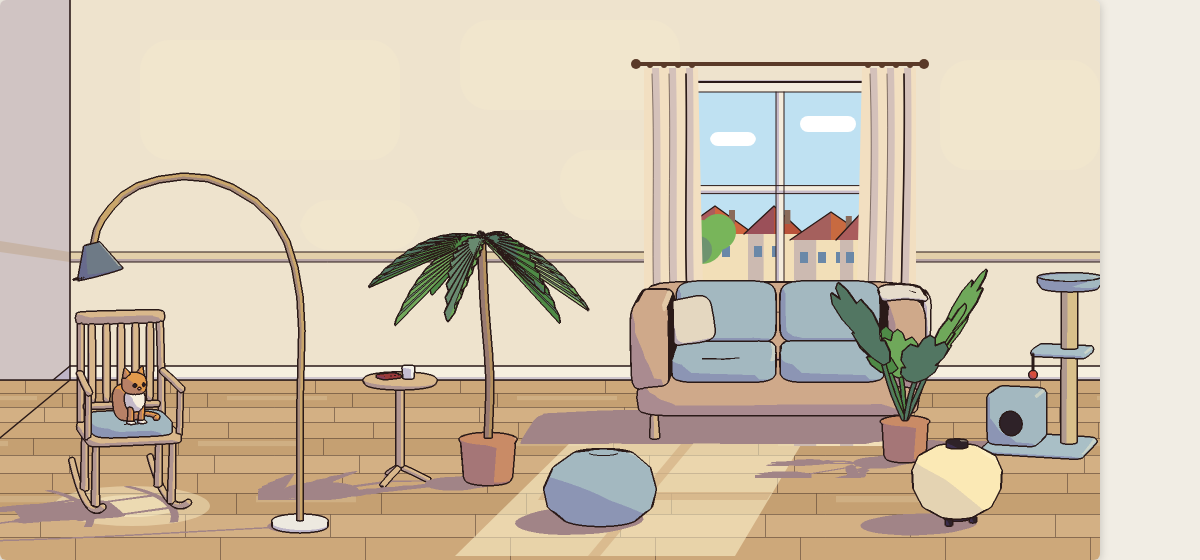
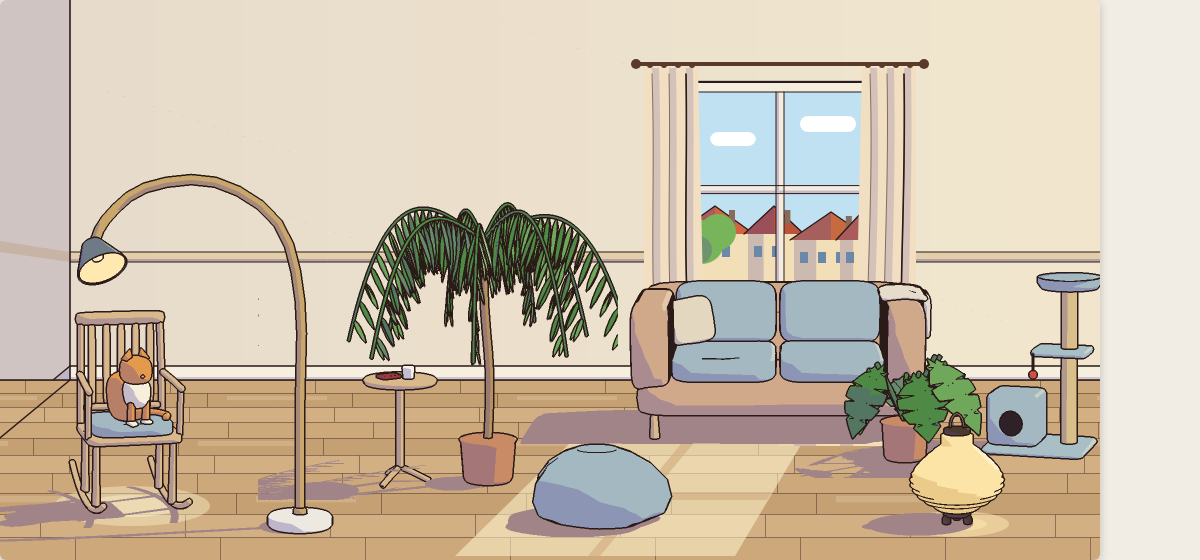
docs(g6): maquette v2 (plantes, chat, lanterne, pouf, mur, lampadaire)

diff --git a/docs/superpowers/maquettes/g6-piece/piece-ghibli.html b/docs/superpowers/maquettes/g6-piece/piece-ghibli.html
@@ -32,6 +32,7 @@ canvas{display:block;background:transparent}
 <h2>Tour du meuble <span class="tag">le même volume 3D sous 4 angles · aplats, ombre nette, encre</span></h2>
 <div class="row" id="tour-chair"></div>
 <div class="row" id="tour-sofa"></div>
+<div class="row" id="tour-plants"></div>
 <div class="row"><div class="card"><canvas id="turn" width="260" height="260"></canvas>Plateau tournant : les 8 angles de l'appli, pas après pas</div></div>
 
 <h2>Trois styles sur le même canapé <span class="tag">scandinave · bohème · steampunk</span></h2>
@@ -59,13 +60,14 @@ function superEll(a,b,c,e1,e2,nu=14,nv=24,deform){
  for(let i=0;i<nu;i++)for(let j=0;j<nv;j++){const a0=i*(nv+1)+j,b0=a0+1,c0=a0+nv+1,d0=c0+1;m.t.push([a0,c0,b0],[b0,c0,d0]);}
  return finish(m,[0,0,0]);
 }
-function lathe(prof,nv=20,deform){ // prof: [[r,y],...] de bas en haut
+function lathe(prof,nv=20,deform,opt={}){ // prof: [[r,y],...] de bas en haut ; opt.caps=false pour une surface ouverte
  const m=mk();const rings=[];
  prof.forEach(([r,y])=>{const ring=[];for(let j=0;j<=nv;j++){const a=2*Math.PI*j/nv;let p=[r*Math.cos(a),y,r*Math.sin(a)];if(deform)p=deform(...p);ring.push(m.v.length);m.v.push(p)}rings.push(ring)});
  for(let i=0;i<rings.length-1;i++)for(let j=0;j<nv;j++){m.t.push([rings[i][j],rings[i+1][j],rings[i][j+1]],[rings[i][j+1],rings[i+1][j],rings[i+1][j+1]])}
- if(prof[0][0]>0){const c=m.v.length;m.v.push([0,prof[0][1],0]);for(let j=0;j<nv;j++)m.t.push([c,rings[0][j],rings[0][j+1]])}
- const L=prof.length-1;if(prof[L][0]>0){const c=m.v.length;m.v.push([0,prof[L][1],0]);for(let j=0;j<nv;j++)m.t.push([c,rings[L][j+1],rings[L][j]])}
- const ys=prof.map(p=>p[1]);return finish(m,[0,(Math.min(...ys)+Math.max(...ys))/2,0]);
+ if(opt.caps!==false){
+  if(prof[0][0]>0){const c=m.v.length;m.v.push([0,prof[0][1],0]);for(let j=0;j<nv;j++)m.t.push([c,rings[0][j],rings[0][j+1]])}
+  const L=prof.length-1;if(prof[L][0]>0){const c=m.v.length;m.v.push([0,prof[L][1],0]);for(let j=0;j<nv;j++)m.t.push([c,rings[L][j+1],rings[L][j]])}}
+ const ys=prof.map(p=>p[1]);return finish(m,opt.center||[0,(Math.min(...ys)+Math.max(...ys))/2,0]);
 }
 function tube(pts,r,nv=10){
  pts=smooth(pts,3);const m=mk();const rings=[];let N=null;
@@ -78,14 +80,13 @@ function tube(pts,r,nv=10){
  [[0,-1],[rings.length-1,1]].forEach(([k,s])=>{const T=norm(sub(pts[Math.min(k+1,pts.length-1)],pts[Math.max(k-1,0)]));const c=m.v.length;m.v.push(pts[k]);m.n.push(scale(T,s));for(let j=0;j<nv;j++){const a=rings[k][j],b=rings[k][j+1];m.t.push(s<0?[c,b,a]:[c,a,b])}});
  return m;
 }
-function leaf(outline,th=.5,deform){ // outline: [[x,z],...] plan y=0, double face
- const m=mk();const n=outline.length;const cx=0,cz=0;
+function leaf(outline,th=.5,deform,center=[0,0]){ // outline: [[x,z],...] plan y=0, double face, étoilé autour de center
+ const m=mk();const n=outline.length;const [cx,cz]=center;
  const push=(x,y,z,ny)=>{let p=[x,y,z];if(deform)p=deform(...p);m.v.push(p);m.n.push([0,ny,0]);return m.v.length-1};
  const top=outline.map(([x,z])=>push(x,th/2,z,1)),ct=push(cx,th/2,cz,1);
  const bot=outline.map(([x,z])=>push(x,-th/2,z,-1)),cb=push(cx,-th/2,cz,-1);
  for(let i=0;i<n;i++){const j=(i+1)%n;m.t.push([ct,top[i],top[j]],[cb,bot[j],bot[i]]);m.t.push([top[i],bot[i],top[j]],[top[j],bot[i],bot[j]])}
- if(deform){ // recalcul des normales après déformation
-  const nn=m.v.map(()=>[0,0,0]);m.t.forEach(([a,b,c])=>{const N=cross(sub(m.v[b],m.v[a]),sub(m.v[c],m.v[a]));[a,b,c].forEach(i=>nn[i]=add(nn[i],N))});
+ if(deform){const nn=m.v.map(()=>[0,0,0]);m.t.forEach(([a,b,c])=>{const N=cross(sub(m.v[b],m.v[a]),sub(m.v[c],m.v[a]));[a,b,c].forEach(i=>nn[i]=add(nn[i],N))});
   m.n=nn.map((v,i)=>{const l=Math.hypot(...v);return l?scale(v,1/l):m.n[i]})}
  return m;
 }
@@ -176,36 +177,50 @@ const STYLES={
  steampunk:{wood:tone('#5A3A28'),fabric:tone('#6E3F2B'),cushion:tone('#6E3F2B'),accent:tone('#9A2E2E'),leg:tone('#3C3A42'),arm:null,variant:'steampunk',brass:tone('#C9A66B')},
 };
 const PINK=tone('#E8A0A0'),DARK=tone('#2E2228'),GINGER=tone('#E39A4C'),CREAM=tone('#F7EEDC'),GREEN=tone('#6FA85A'),GREEN2=tone('#4E8A46'),POT=tone('#C98B66'),SOIL=tone('#5A4030');
-const WHITE=tone('#F4F1EA'),MARBLE=tone('#EDE9E0'),BRASS=tone('#C9A66B'),GREY=tone('#6E7A86'),WARM={base:'#FFE9B0',shade:'#FFE9B0',hi:'#FFF6D0'},PAPER=tone('#FBE9B5',{s:.14}),SISAL=tone('#D9C08B'),FELT=tone('#A9BFC6');
+const WHITE=tone('#F4F1EA'),MARBLE=tone('#EDE9E0'),BRASS=tone('#C9A66B'),GREY=tone('#6E7A86'),WARM={base:'#FFE9B0',shade:'#FFE9B0',hi:'#FFF6D0'},PAPER={base:'#FBE4A6',shade:'#EACB8A',hi:'#FFF2C8'},SISAL=tone('#D9C08B'),FELT=tone('#A9BFC6');
 const deg=a=>a*Math.PI/180;
 
 /* ---------- le chat ---------- */
-function cat(o={}){ // pose 'sit' | 'walk', phase (marche), t, ry
- const P=[];const T=p=>place(p,{ry:o.ry||0,t:o.t||[0,0,0]});const push=(m,c,x)=>P.push(part(T(m),c,{crease:false,...x}));
- if(o.pose==='walk'){const ph=o.phase||0;
-  push(place(superEll(14,6.5,6.5,.7,.8,12,20),{t:[0,14,0]}),GINGER);
-  push(place(superEll(4,3.5,3.5,.8,.8,8,12),{t:[8,12,0]}),CREAM); // poitrail
-  push(place(superEll(6,5.5,6,.75,.75,12,16),{t:[13,20,0]}),GINGER);
-  [[-1],[1]].forEach(([s])=>push(place(lathe([[2.4,0],[.3,4.5]],8),{rz:0,rx:s*.35,t:[14,24,s*3.5]}),GINGER));
-  [[-1],[1]].forEach(([s])=>push(place(superEll(.9,.8,.5,1,1,6,8),{t:[18.5,20.5,s*2.4]}),DARK,{flat:true}));
-  push(place(superEll(.9,.7,.6,1,1,6,8),{t:[19.3,18.6,0]}),PINK,{flat:true});
-  // pattes : pivot à la hanche (y=13), balancement opposé des diagonales
-  [[9,1],[9,-1],[-8,1],[-8,-1]].forEach(([x,s],k)=>{const sw=Math.sin(ph+(k<2?0:Math.PI)+(s>0?0:Math.PI))*.5;push(place(lathe([[1.5,-13],[1.7,0]],8),{rz:sw,t:[x,13,s*3.2]}),GINGER)});
-  push(tube([[-13,15,0],[-18,20,1],[-19,27,2],[-16,31,3]],1.4,8),GINGER);
- }else{
-  push(place(superEll(8,10.5,9,.7,.7,14,20),{rx:-.25,t:[0,10.5,-2]}),GINGER);
-  push(place(superEll(6,6.5,5.5,.75,.75,12,16),{t:[0,13,4.5]}),CREAM);
-  push(place(superEll(6.5,6,6.5,.75,.75,12,18),{t:[0,22.5,4.5]}),GINGER);
-  [[-1],[1]].forEach(([s])=>push(place(lathe([[2.6,0],[.3,4.8]],8),{rz:-s*.3,t:[s*4,27,3.5]}),GINGER));
-  [[-1],[1]].forEach(([s])=>push(place(superEll(1.1,.9,.5,1,1,6,8),{t:[s*2.6,23,10.6]}),DARK,{flat:true}));
-  push(place(superEll(.9,.7,.6,1,1,6,8),{t:[0,21.2,11]}),PINK,{flat:true});
-  [[-1],[1]].forEach(([s])=>push(place(lathe([[1.7,0],[1.6,11]],8),{t:[s*3.4,0,7.5]}),GINGER));
-  [[-1],[1]].forEach(([s])=>push(place(superEll(2,1.2,2.6,.6,.6,6,10),{t:[s*3.4,1,8.5]}),CREAM));
-  push(tube([[6,2,-7],[13,1.8,-3],[15,2,4],[12,2.4,9]],1.5,8),GINGER);
+function cat(o={}){ // pose 'walk' (phase) | 'leap' (u 0→1, incl) | 'rest' (u : 0 assis → 1 enroulé) ; ry, t ; échelle réelle ~45 cm
+ const P=[];const S=1.35;const T=p=>place(p,{s:S,ry:o.ry||0,t:o.t||[0,0,0]});const push=(m,c,x)=>P.push(part(T(m),c,{crease:false,...x}));
+ const face=(hx,hy,hz,fwd)=>{ // yeux + nez, fwd = direction du museau (unitaire, plan xz)
+  const [fx,fz]=fwd;const side=[-fz,fx];
+  [[-1],[1]].forEach(([s])=>push(place(superEll(.9,.8,.5,1,1,6,8),{ry:Math.atan2(fx,fz),t:[hx+fx*5.2+side[0]*s*2.5,hy+.6,hz+fz*5.2+side[1]*s*2.5]}),DARK,{flat:true,noshadow:true}));
+  push(place(superEll(.8,.6,.6,1,1,6,8),{t:[hx+fx*6.2,hy-1.4,hz+fz*6.2]}),PINK,{flat:true,noshadow:true})};
+ const ears=(hx,hy,hz,fwd,tilt=0)=>{const [fx,fz]=fwd;const side=[-fz,fx];[[-1],[1]].forEach(([s])=>push(place(lathe([[2.5,0],[1.6,2.2],[.3,4.8]],8),{rz:-s*.28+tilt,ry:Math.atan2(fx,fz),t:[hx+side[0]*s*3.8-fx*.5,hy+4.2,hz+side[1]*s*3.8-fz*.5]}),GINGER))};
+ const tailTube=(pts,r=1.5)=>push(tube(pts,r,8),GINGER);
+ if(o.pose==='walk'){const ph=o.phase||0,bob=.5*Math.abs(Math.sin(ph));
+  push(place(superEll(13,6,6,.75,.85,12,20),{t:[0,14+bob,0]}),GINGER);
+  push(place(superEll(4.5,3.6,3.6,.8,.8,8,12),{t:[9,12.5+bob,0]}),CREAM);
+  push(place(superEll(5.6,5.2,5.6,.75,.75,12,16),{t:[14,19.5+bob,0]}),GINGER);
+  ears(14,19.5+bob,0,[1,0]);face(14,19.5+bob,0,[1,0]);
+  // pattes articulées : cuisse 7 + jambe 6, pivot hanche/épaule, diagonales opposées
+  [[8.5,1,0],[8.5,-1,Math.PI],[-8.5,1,Math.PI],[-8.5,-1,0]].forEach(([x,s,off])=>{const a=Math.sin(ph+off)*.55;const bend=.35+.55*Math.max(0,Math.sin(ph+off+1.2));
+   const hip=[x,13.5+bob,s*3.2];push(place(lathe([[1.5,-7],[1.8,0]],8),{rz:a,t:hip}),GINGER);
+   const knee=[hip[0]+Math.sin(a)*7,hip[1]-Math.cos(a)*7,hip[2]];const a2=a-bend*(x>0?1:-1)*(Math.sin(ph+off)>0?1:.3);
+   push(place(lathe([[1.3,-6.5],[1.5,0]],8),{rz:a2,t:knee}),GINGER);
+   const paw=[knee[0]+Math.sin(a2)*6.5,knee[1]-Math.cos(a2)*6.5,knee[2]];push(place(superEll(2,1.1,1.6,.6,.6,6,8),{t:[paw[0]+.5,Math.max(0,paw[1])+.6,paw[2]]}),CREAM)});
+  const w=Math.sin(ph*.5);tailTube([[-12,15+bob,0],[-18,19+bob,w*1.5],[-21,25+bob,w*3],[-19,30+bob,w*4],[-15,32+bob,w*4.5]]);
+ }else if(o.pose==='leap'){const u=o.u||0,incl=o.incl||0; // élan : corps étiré, pattes avant tendues, arrière en extension
+  const B=p=>rotZ(p,incl);const put=(m,c,pos,x)=>push(place(m,{rz:incl,t:add(B(pos),[0,0,0])}),c,x);
+  put(superEll(16,5.6,5.6,.8,.85,12,20),GINGER,[0,16,0]);
+  put(superEll(5.4,5,5.4,.75,.75,12,16),GINGER,[16,20,0]);
+  const hp=B([16,20,0]);ears(hp[0],hp[1],hp[2],[Math.cos(incl),0],incl*.5);face(hp[0],hp[1],hp[2],[Math.cos(incl),0]);
+  [[1],[-1]].forEach(([s])=>{const sh=B([13,13,s*3]);push(place(lathe([[1.4,-12],[1.7,0]],8),{rz:incl-1.15,t:sh}),GINGER)});
+  [[1],[-1]].forEach(([s])=>{const hp2=B([-12,14,s*3.2]);push(place(lathe([[1.5,-12.5],[1.9,0]],8),{rz:incl+1.05+.3*u,t:hp2}),GINGER)});
+  tailTube([B([-15,16,0]),B([-23,17,1]),B([-30,16,2]),B([-35,13,2])]);
+ }else{ // rest : u=0 assis, u=1 enroulé
+  const u=o.u||0,L=(a,b)=>a+(b-a)*u;
+  push(place(superEll(L(8,12.5),L(10.5,5.8),L(9,10.5),.7,.7,14,22),{rx:L(-.25,0),t:[0,L(10.5,5.8),L(-2,0)]}),GINGER);
+  push(place(superEll(L(6,4),L(6.5,3.5),L(5.5,4),.75,.75,12,16),{t:[L(0,-6),L(13,5),L(4.5,7)]}),CREAM);
+  const hp=[L(0,-6),L(22.5,9.5),L(4.5,8)];push(place(superEll(6.3,5.8,6.3,.75,.75,12,18),{t:hp}),GINGER);
+  const fwd=[Math.sin(L(0,-.9)),Math.cos(L(0,-.9))];ears(hp[0],hp[1],hp[2],fwd);face(hp[0],hp[1],hp[2],fwd);
+  if(u<.98){[[-1],[1]].forEach(([s])=>{push(place(lathe([[1.6,0],[1.5,L(11,3)]],8),{t:[s*3.4,0,L(7.5,6)]}),GINGER);push(place(superEll(2,1.2,2.6,.6,.6,6,10),{t:[s*3.4,1,L(8.5,7)]}),CREAM)})}
+  const tailS=[[6,2,-7],[13,1.8,-3],[15,2,4],[12,2.4,9]],tailC=[[10,2,-6],[14,2,2],[10,2.2,9],[2,2.4,11],[-4,2.6,10]];
+  tailTube(tailS.map((p,i)=>p.map((v,k)=>L(v,tailC[i<tailC.length?i:tailC.length-1][k]))).concat(u>.5?[tailC[4].map((v,k)=>L(tailS[3][k],v))]:[]));
  }
  return P;
 }
-
 /* ---------- rocking-chair ---------- */
 const RUN_R=95;
 function chair(st=STYLES.scandinave,o={}){
@@ -219,7 +234,7 @@ function chair(st=STYLES.scandinave,o={}){
  P.push(part(place(superEll(24,1.7,1.5,.3,.3,6,16),{t:[0,53,-19.6]}),W,{crease:false}));
  for(let i=-2;i<=2;i++)P.push(part(place(superEll(2,23,.9,.3,.3,10,10),{rx:-.075,t:[i*8.5,77.5,-22.4]}),W,{crease:false}));
  for(const sx of[-1,1]){P.push(part(tube([[sx*24.2,72,-21.5],[sx*25.6,71,0],[sx*26.2,70,16]],1.9,10),W,{crease:false}));P.push(part(place(lathe([[1.6,0],[1.6,27]],10),{t:[sx*26.2,43,14]}),W,{crease:false}))}
- if(o.cat)P.push(...cat({pose:'sit',ry:.25,t:[0,49.5,3]}));
+ if(o.cat!=null&&o.cat!==false)P.push(...cat({pose:'rest',u:o.cat===true?0:o.cat,ry:.25,t:[0,49.5,3]}));
  return P;
 }
 
@@ -261,12 +276,17 @@ function sofa(st=STYLES.scandinave){
 
 /* ---------- autres meubles de la pièce ---------- */
 function arcLamp(){const P=[];
- P.push(part(lathe([[16,0],[16,3.2],[0,3.2]],28),MARBLE));
- const pts=[[0,3,0],[0,70,0],[0,130,0],[-14,172,0],[-50,194,0],[-88,190,0],[-108,172,0],[-113,158,0]];
- P.push(part(tube(pts,1.7,10),BRASS,{crease:false}));
- const end=pts[pts.length-1];
- P.push(part(place(lathe([[4.5,0],[12,-15],[13,-17],[0,-17]],24),{rz:.25,t:[end[0]-1,end[1]+1,0]}),GREY));
- P.push(part(place(lathe([[0,0],[11.4,0]],24),{rz:.25,t:[end[0]-1,end[1]-15.6,0]}),WARM,{flat:true,noshadow:true}));
+ // socle : disque de marbre épais à chanfrein + collier laiton
+ P.push(part(lathe([[0,0],[17.5,0],[18.5,1.2],[18.5,5.5],[17.5,6.8],[4.5,6.8],[4.5,7.2],[0,7.2]],32),MARBLE,{creaseThr:.75}));
+ P.push(part(lathe([[3.6,6.8],[3.6,10],[2.9,10.8]],14),BRASS,{crease:false}));
+ // fût : vraie épaisseur (≈5 cm), arc continu
+ const pts=[[0,8,0],[0,70,0],[0,128,0],[-12,170,0],[-46,192,0],[-84,189,0],[-106,172,0],[-113,158,0]];
+ P.push(part(tube(pts,2.6,12),BRASS,{crease:false}));
+ const end=pts[pts.length-1];const at={rz:.4,rx:-.62,t:[end[0]-1,end[1]+1,0]};
+ // abat-jour ouvert : extérieur gris-bleu, intérieur chaud visible, ampoule
+ P.push(part(place(lathe([[14,-17],[13.6,-15.5],[5.5,0],[0,0]],28,null,{caps:false,center:[0,-4,0]}),at),GREY));
+ P.push(part(place(lathe([[13.2,-16.6],[5,-1.2]],28,null,{caps:false,center:[0,-30,0]}),at),WARM,{flat:true,noshadow:true}));
+ P.push(part(place(lathe([[0,-11],[3,-10],[3.4,-7],[2.2,-4],[0,-4]],12),at),tone('#FFF4C8',{s:.08}),{crease:false,noshadow:true}));
  return P}
 function gueridon(){const P=[];
  P.push(part(lathe([[0,56],[20,56],[21,58],[20,59],[0,59]],28),STYLES.scandinave.wood));
@@ -278,22 +298,49 @@ function gueridon(){const P=[];
 function palm(){const P=[];
  P.push(part(lathe([[13,0],[14,2],[15.5,22],[16.5,24],[15,24.5],[14.5,24.6]],24),POT));
  P.push(part(lathe([[0,24],[13.8,24]],24),SOIL,{flat:true,noshadow:true}));
- P.push(part(tube([[0,24,0],[1,60,0],[-2,100,0],[-4,138,1]],2.2,8),tone('#B5915E'),{crease:false}));
- const out=[];for(let i=0;i<=20;i++){const z=i*3;const w=6.5*Math.sin(Math.PI*z/60)*(1-.3*z/60)+.4;out.push([w+(i%2?1.5:0),z])}for(let i=20;i>=0;i--){const z=i*3;const w=6.5*Math.sin(Math.PI*z/60)*(1-.3*z/60)+.4;out.push([-(w+(i%2?1.5:0)),z])}
- for(let k=0;k<8;k++){const a=k*2*Math.PI/8+.3,drop=.3+.45*((k*7)%3)/2;P.push(part(place(leaf(out,.6,(x,y,z)=>[x,y-.011*z*z,z]),{rx:-(.55-drop),ry:a,t:[-4,138,1]}),k%2?GREEN:GREEN2))}
+ P.push(part(tube([[0,24,0],[1,60,0],[-2,100,0],[-3,136,1]],2.3,8),tone('#B5915E'),{crease:false}));
+ const top=[-3,136,1];
+ for(let k=0;k<9;k++){const a=k*2*Math.PI/9+.25,rise=.55+.3*((k*5)%3)/2,len=78+10*((k*7)%3);
+  // rachis : monte, s'arque puis retombe (dans le plan local x-y, puis tourné de a)
+  const N=20;const loc=[];for(let i=0;i<=N;i++){const s=i/N;loc.push([len*s*(1-.15*s),28*Math.sin(Math.PI*s*.9)*rise-62*s*s*s,0])}
+  const world=loc.map(p=>add(rotY(p,a),top));P.push(part(tube(world,.75,6),GREEN2,{crease:false}));
+  // folioles fines et souples des deux côtés, de plus en plus courtes vers la pointe
+  for(let i=3;i<loc.length;i++){for(let f=0;f<1;f++){const s=i/N;const p0=loc[i-1],p1=loc[i];const pm=[p0[0]+(p1[0]-p0[0])*f*.5,p0[1]+(p1[1]-p0[1])*f*.5,0];
+   const tilt=Math.atan2(p1[1]-p0[1],p1[0]-p0[0]);const Lf=(34-18*s)*(.92+.16*((i*3)%2));
+   for(const sd of[-1,1]){const droop=.95+.3*(((i*7+(sd>0?1:0))%4)/3)+.3*s;
+    const out=[[0,0],[1.1,Lf*.2],[1.35,Lf*.45],[1,Lf*.75],[0,Lf],[-1,Lf*.75],[-1.35,Lf*.45],[-1.1,Lf*.2]];
+    let m=leaf(out,.35,(x,y,z)=>[x,y-.009*z*z,z]);m=place(m,{s:[1,1,sd],rx:sd*droop});m=place(m,{rz:tilt*.35,ry:a,t:add(rotY(pm,a),top)});
+    P.push(part(m,(i+sd)%2?GREEN:GREEN2,{crease:false}))}}}}
  return P}
-function beanbag(){return[part(lathe([[0,0],[22,0],[30,7],[32,17],[28,28],[18,36],[9,37.5],[3,35.5],[0,35]],28,(x,y,z)=>[x+(y>20?(y-20)*.12:0),y,z]),STYLES.scandinave.cushion)]}
+function beanbag(){ // sac de billes affaissé : base large, plis verticaux, creux au sommet, légère bascule
+ const prof=[[0,0],[27,0],[35,4],[38,12],[36,22],[29,31],[20,37],[12,40],[7,38.5],[3,35],[0,34]];
+ const def=(x,y,z)=>{const a=Math.atan2(z,x),r=Math.hypot(x,z);const fold=1+(.085*(Math.abs(Math.sin(2.5*a+.6))-.5)+.03*Math.sin(7*a-1.1))*(y<28?1:Math.max(0,(40-y)/12));
+  const rr=r*fold;const lean=y>18?(y-18)*.09:0;return[rr*Math.cos(a)-lean,y-(r<8&&y>30?.8:0),rr*Math.sin(a)]};
+ return[part(lathe(prof,36,def),STYLES.scandinave.cushion,{creaseThr:.8})]}
 function monstera(){const P=[];
  P.push(part(lathe([[11,0],[12,2],[13,20],[14,21.5],[12.5,22]],24),POT));P.push(part(lathe([[0,21.5],[12,21.5]],24),SOIL,{flat:true,noshadow:true}));
- const out=[[0,0],[-7,-3],[-12,-9],[-13,-15],[-8,-14],[-15,-22],[-16,-30],[-12,-36],[-6,-33],[-4,-40],[0,-43],[4,-40],[6,-33],[12,-36],[16,-30],[15,-22],[8,-14],[13,-15],[12,-9],[7,-3]].map(([x,z])=>[x*.9,-z*.9]);
- const leaves=[[0,.55,.7],[1.3,.9,.6],[-1.4,.85,.55],[2.9,.45,.45],[-2.9,.55,.75],[.7,.7,.5]];
- leaves.forEach(([a,s,drop],k)=>{P.push(part(tube([[0,21,0],[Math.sin(a)*8,38,Math.cos(a)*8],[Math.sin(a)*14,30+30*s,Math.cos(a)*14]],1.1,6),GREEN2,{crease:false}));
-  P.push(part(place(leaf(out,.6),{s:s*1.7,rx:-(1.3-drop*.5),ry:a,t:[Math.sin(a)*14,30+30*s,Math.cos(a)*14]}),k%2?GREEN:GREEN2))});
+ // feuille en cœur fendue : contour étoilé autour de (0,L/2), fentes profondes depuis le bord
+ const L=46,W=36;const w=z=>{const t=z/L;return W/2*Math.sin(Math.PI*Math.pow(t,.8))*(t<.3?.75+.25*t/.3:1)};
+ const side=(sgn)=>{const pts=[];const zs=[];for(let i=0;i<=14;i++)zs.push(L*(1-i/14));
+  zs.forEach((z,i)=>{if(i===0||i===14)return;const x=w(z)*sgn;pts.push([x,z]);
+   if([3,6,9,12].includes(i)){const d=.55+.1*(i%2);pts.push([x*(1-d)+(sgn*1.2)*0,z-1.5]);pts.push([x*(1-d),z-1.6]);pts.push([x,z-3])}});
+  return pts};
+ const out=[[0,L],...side(1),[2.5,-1],[0,3.5],[-2.5,-1],...side(-1).reverse()];
+ const blade=(sc)=>leaf(out,.5,(x,y,z)=>[x,y-.006*(z-L/2)*(z-L/2)-.004*x*x,z],[0,L*.5]);
+ const stems=[[0,.8,1.15,.85],[1.25,.95,1.05,1],[-1.3,.9,1.1,.95],[2.7,.6,.95,.8],[-2.6,.7,1.2,.9],[.6,1,.9,1.1]];
+ stems.forEach(([a,h,tip,sc],k)=>{const r1=10,r2=20;const p1=[Math.sin(a)*r1,21+22*h,Math.cos(a)*r1],p2=[Math.sin(a)*r2,21+40*h,Math.cos(a)*r2];
+  P.push(part(tube([[0,21,0],p1,p2],1.2,6),GREEN2,{crease:false}));
+  // la feuille part du bout de la tige, pend vers l'extérieur et vers le bas (pointe en bas)
+  P.push(part(place(blade(sc),{s:sc,rx:tip,ry:a,t:p2}),k%2?GREEN:GREEN2))});
  return P}
-function lantern(){const P=[];
- P.push(part(lathe([[0,4],[11,4.5],[20,10],[25,20],[25.5,30],[22,38],[13,43],[0,44]],28),PAPER,{creaseThr:.93}));
- P.push(part(lathe([[6,42],[6,47],[0,47]],16),DARK,{crease:false}));P.push(part(lathe([[0,2.5],[8,2.5],[8,5]],16),DARK,{crease:false}));
- for(let k=0;k<3;k++){const a=k*2.1;P.push(part(place(lathe([[2,0],[2,3]],8),{t:[Math.cos(a)*9,0,Math.sin(a)*9]}),DARK,{crease:false}))}
+function lantern(){const P=[]; // chōchin : fuseau à côtes horizontales, anneaux de bois, cordon, lueur chaude
+ const prof=[[0,6],[6,6],[11,7.5]];for(let y=9;y<=47;y+=3.2){const t=(y-6)/41;const r=22.5*Math.sin(Math.PI*Math.pow(t,.9))*(.78+.22*(1-t))+6;prof.push([r+.7,y],[r-.5,y+1.4])}
+ prof.push([9,50.5],[5,51.5],[0,51.5]);
+ P.push(part(lathe(prof,32),PAPER,{creaseThr:.9}));
+ P.push(part(lathe([[5.5,51],[7.2,51.5],[7.4,54],[5.5,54.5]],16),tone('#4A3A2E'),{crease:false}));
+ P.push(part(lathe([[0,4.2],[7.6,4.2],[7.8,6.6],[6.4,6.8]],16),tone('#4A3A2E'),{crease:false}));
+ P.push(part(tube([[-4,54,0],[-3,60,1],[0,63,2],[3,60,1],[4,54,0]],.6,6),tone('#8A6A4A'),{crease:false,noshadow:true}));
+ for(let k=0;k<3;k++){const a=k*2.1+.5;P.push(part(place(lathe([[2.2,0],[2.4,2.6],[1.6,4.4]],8),{t:[Math.cos(a)*7,0,Math.sin(a)*7]}),tone('#4A3A2E'),{crease:false}))}
  return P}
 function catTree(){const P=[];const BOX=STYLES.scandinave.cushion;
  P.push(part(place(superEll(30,1.6,22,.2,.2,6,20),{t:[0,1.6,0]}),FELT));
@@ -313,7 +360,8 @@ function drawBackground(ctx,t){
  ctx.save();
  // mur du fond + léger relief en aplats
  ctx.fillStyle=WALL;ctx.fillRect(0,0,1100,FL);
- ctx.fillStyle=li(WALL,.16);[[140,40,260,120],[460,20,220,90],[560,150,160,70],[940,60,160,110],[300,200,120,50]].forEach(([x,y,w,h])=>{rrect(ctx,x,y,w,h,30);ctx.fill()});
+ for(let k=0;k<12;k++){ctx.fillStyle=mix(sh(WALL,.05),li(WALL,.16),k/11);ctx.fillRect(70+k*86,0,88,FL)}
+ ctx.fillStyle='rgba(42,26,24,.035)';for(let k=0;k<70;k++){const x=90+((k*197)%1000),y=20+((k*131)%330);ctx.fillRect(x,y,2+(k%3),1)}
  // cimaise
  ctx.fillStyle='#E2CFA9';ctx.fillRect(70,252,1030,7);ctx.fillStyle=sh('#E2CFA9');ctx.fillRect(70,259,1030,3);ink(ctx,[[70,252],[1100,252]],1.2);ink(ctx,[[70,262],[1100,262]],1);
  // pan de mur gauche (coin)
@@ -338,6 +386,7 @@ function drawBackground(ctx,t){
  ctx.beginPath();ctx.moveTo(543,FL+112);ctx.lineTo(772,FL+112);ctx.lineTo(767,FL+120);ctx.lineTo(538,FL+120);ctx.closePath();ctx.fill();
  // flaque du lampadaire (deux tons nets, pas de flou)
  ctx.fillStyle='rgba(255,246,208,.42)';ctx.beginPath();ctx.ellipse(132,506,78,20,0,0,7);ctx.fill();ctx.fillStyle='rgba(255,246,208,.45)';ctx.beginPath();ctx.ellipse(132,506,46,11,0,0,7);ctx.fill();
+ ctx.fillStyle='rgba(255,233,176,.5)';ctx.beginPath();ctx.ellipse(957,524,52,13,0,0,7);ctx.fill();ctx.fillStyle='rgba(255,233,176,.5)';ctx.beginPath();ctx.ellipse(957,524,30,7,0,0,7);ctx.fill();
  // fenêtre
  const wx=690,wy=92,ww=180,wh=208;
  ctx.fillStyle=sh(WALL,.25);ctx.fillRect(wx-12,wy-12,ww+24,wh+24); // embrasure
@@ -397,37 +446,41 @@ function buildRoom(){
  FURN.push(sprite(catTree(),1040,448,{w:260,h:260,ox:150,oy:240,yaw:-.25}));
 }
 const CHAIR_X=130,CHAIR_Y=506,CHAIR_YAW=.22;
-function chairSprite(angle,withCat){
+function chairSprite(angle,catU){
  const pre=p=>{const q=[p[0],p[1]-RUN_R,p[2]];const r=rotX(q,angle);return[r[0],r[1]+RUN_R,r[2]]};const preN=n=>rotX(n,angle);
- return sprite(chair(STYLES.scandinave,{cat:withCat}),CHAIR_X,CHAIR_Y,{w:360,h:300,ox:240,oy:270,yaw:CHAIR_YAW,pre,preN});
+ return sprite(chair(STYLES.scandinave,{cat:catU}),CHAIR_X,CHAIR_Y,{w:360,h:300,ox:240,oy:270,yaw:CHAIR_YAW,pre,preN});
 }
 let catSitSprite=null;const catWalkSprites={};
-function catWalk(ph,dir){const k=Math.round(ph*8)/8+'|'+dir;if(!catWalkSprites[k])catWalkSprites[k]=render(cat({pose:'walk',phase:ph,ry:dir>0?deg(10):deg(190)}),{...ROOM,w:140,h:100,ox:70,oy:85});return catWalkSprites[k]}
+function catWalk(ph,dir){const k=Math.round(ph*6)/6+'|'+dir;if(!catWalkSprites[k])catWalkSprites[k]=render(cat({pose:'walk',phase:ph,ry:dir>0?deg(12):deg(192)}),{...ROOM,w:160,h:110,ox:80,oy:95});return catWalkSprites[k]}
 
 /* ---------- chronologie (13 s) ---------- */
-const T=13;
-function timeline(t){ // renvoie l'état : chairAngle, cat {mode,x,y,ph,dir}
- let ang=0,c=null;
+const T=14.5;
+function timeline(t){ // renvoie l'état : chairAngle, cat {mode,x,y,ph,dir,u,incl}
+ let ang=0,c=null;const ease=u=>u*u*(3-2*u);
  const rock=(t0,A)=>{const u=t-t0;return u>0?deg(A)*Math.exp(-.55*u)*Math.sin(2*Math.PI*u/1.75):0};
- if(t<1.9){const u=t/1.9;c={mode:'walk',x:-70+(55+70)*u,y:518,ph:u*14,dir:1}}
- else if(t<2.5){const u=(t-1.9)/.6;const ease=u*u;c={mode:'jump',x:55+(128-55)*ease,y:518+(418-518)*u-60*Math.sin(Math.PI*u),dir:1}}
- else if(t<9.2){c={mode:'sit'};ang=rock(2.45,6.5)}
- else if(t<9.75){const u=(t-9.2)/.55;c={mode:'jump',x:128+(38-128)*u,y:418+(518-418)*u*u-34*Math.sin(Math.PI*u),dir:-1};ang=rock(9.2,2.2)}
- else if(t<11.9){const u=(t-9.75)/2.15;c={mode:'walk',x:38-(38+80)*u,y:518,ph:u*16,dir:-1};ang=rock(9.2,2.2)}
+ if(t<2.1){const u=t/2.1;c={mode:'walk',x:-80+(52+80)*u,y:518,ph:u*15,dir:1}}
+ else if(t<2.7){const u=(t-2.1)/.6;c={mode:'leap',x:52+(130-52)*ease(u),y:518+(418-518)*u-62*Math.sin(Math.PI*u),dir:1,u,incl:(.6-1.3*u)}}
+ else if(t<5.6){c={mode:'rest',u:0};ang=rock(2.65,6.5)}
+ else if(t<6.6){c={mode:'rest',u:ease((t-5.6)/1)};ang=rock(2.65,6.5)}
+ else if(t<9.9){c={mode:'rest',u:1};ang=rock(2.65,6.5)}
+ else if(t<10.5){c={mode:'rest',u:1-ease((t-9.9)/.6)}}
+ else if(t<11.05){const u=(t-10.5)/.55;c={mode:'leap',x:130+(34-130)*u,y:418+(518-418)*u*u-30*Math.sin(Math.PI*u),dir:-1,u,incl:(-.3-.9*u)};ang=rock(10.5,2.4)}
+ else if(t<13.4){const u=(t-11.05)/2.35;c={mode:'walk',x:34-(34+90)*u,y:518,ph:u*17,dir:-1};ang=rock(10.5,2.4)}
  return{ang,cat:c};
 }
 let chairCache={key:null,sp:null};
 function drawScene(ctx,t){
  drawBackground(ctx,t);
  const st=timeline(t%T);
- const key=st.ang.toFixed(3)+'|'+(st.cat&&st.cat.mode==='sit');
- if(chairCache.key!==key){chairCache={key,sp:chairSprite(st.ang,st.cat&&st.cat.mode==='sit')}}
+ const catU=st.cat&&st.cat.mode==='rest'?Math.round(st.cat.u*40)/40:null;
+ const key=st.ang.toFixed(3)+'|'+catU;
+ if(chairCache.key!==key){chairCache={key,sp:chairSprite(st.ang,catU)}}
  const all=[...FURN,chairCache.sp].sort((a,b)=>(a.y+a.c.height)-(b.y+b.c.height)); // le plus bas devant
  // ordre réel : par ligne de sol
  const order=[{s:chairCache.sp,g:CHAIR_Y},{s:FURN[0],g:526},{s:FURN[1],g:480},{s:FURN[2],g:480},{s:FURN[3],g:517},{s:FURN[4],g:424},{s:FURN[5],g:458},{s:FURN[6],g:522},{s:FURN[7],g:448}].sort((a,b)=>a.g-b.g);
  order.forEach(({s})=>ctx.drawImage(s.c,s.x,s.y));
  if(st.cat&&st.cat.mode==='walk'){const c=catWalk(st.cat.ph,st.cat.dir);ctx.drawImage(c,st.cat.x-70,st.cat.y-85)}
- if(st.cat&&st.cat.mode==='jump'){if(!catSitSprite)catSitSprite=render(cat({pose:'sit',ry:.25}),{...ROOM,w:120,h:100,ox:60,oy:85,shadow:false});ctx.drawImage(catSitSprite,st.cat.x-60,st.cat.y-85)}
+ if(st.cat&&st.cat.mode==='leap'){const c=render(cat({pose:'leap',u:st.cat.u,incl:st.cat.incl*st.cat.dir,ry:st.cat.dir>0?deg(12):deg(192)}),{...ROOM,w:180,h:130,ox:90,oy:100,shadow:false});ctx.drawImage(c,st.cat.x-90,st.cat.y-100)}
 }
 
 /* ---------- tour du meuble / plateau / styles ---------- */
@@ -441,10 +494,11 @@ buildRoom();
 const sc=document.getElementById('scene').getContext('2d');
 tour('tour-chair',()=>chair(),'Rocking-chair',{scale:1.55,oy:200});
 tour('tour-sofa',()=>sofa(),'Canapé',{scale:1.05,oy:190});
+const tp=document.getElementById('tour-plants');[[0,'face (0°)'],[45,'trois-quarts (45°)'],[90,'profil (90°)']].forEach(([a,l])=>card(tp,render(palm(),{...TOUR,w:230,h:230,ox:115,oy:215,scale:1.05,yaw:deg(a)}),'Palmier — '+l));[[0,'face (0°)'],[45,'trois-quarts (45°)'],[90,'profil (90°)']].forEach(([a,l])=>card(tp,render(monstera(),{...TOUR,w:230,h:230,ox:115,oy:215,scale:1.6,yaw:deg(a)}),'Monstera — '+l));
 const stylesRow=document.getElementById('styles');
 [['scandinave','Scandinave : hêtre clair, lin, coussin bleu-gris'],['boheme','Bohème : rotin, terracotta, plaid à franges, motifs'],['steampunk','Steampunk : cuir capitonné, rivets laiton, pieds fonte']].forEach(([k,l])=>{const c=render(sofa(STYLES[k]),{...TOUR,w:340,h:230,ox:170,oy:190,scale:1.2,yaw:deg(28)});card(stylesRow,c,l)});
 const turn=document.getElementById('turn').getContext('2d');let turnStep=-1;
-function drawTurn(t){const s=Math.floor(t/1.1)%8;if(s===turnStep)return;turnStep=s;turn.clearRect(0,0,260,260);turn.drawImage(render(chair(STYLES.scandinave,{cat:true}),{...TOUR,w:260,h:260,ox:130,oy:220,scale:1.5,yaw:deg(45*s)}),0,0)}
+function drawTurn(t){const s=Math.floor(t/1.1)%8;if(s===turnStep)return;turnStep=s;turn.clearRect(0,0,260,260);turn.drawImage(render(chair(STYLES.scandinave,{cat:1}),{...TOUR,w:260,h:260,ox:130,oy:220,scale:1.5,yaw:deg(45*s)}),0,0)}
 if(fixedT!=null){drawScene(sc,fixedT);drawTurn(fixedT);document.getElementById('mini').getContext('2d').drawImage(document.getElementById('scene'),0,0)}
 else{drawScene(sc,5.2);document.getElementById('mini').getContext('2d').drawImage(document.getElementById('scene'),0,0);
  const t0=performance.now();(function loop(){const t=(performance.now()-t0)/1000;drawScene(sc,t);drawTurn(t);requestAnimationFrame(loop)})()}
